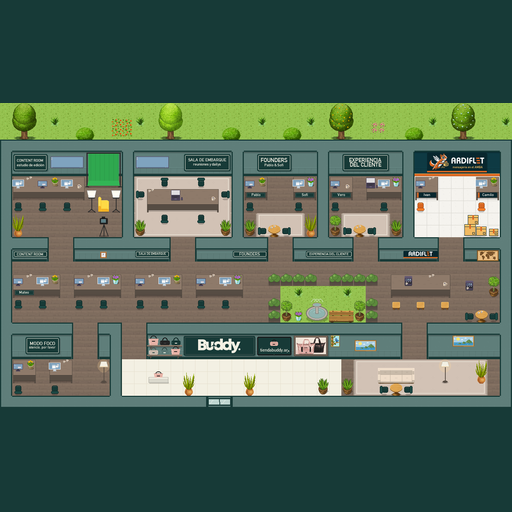
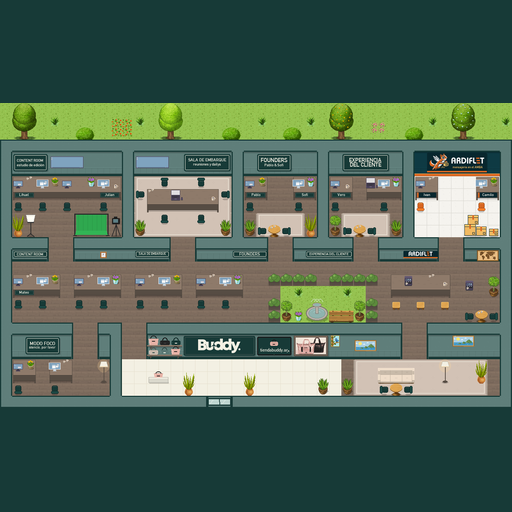
Content room: escritorios de Lihuel y Julian en las puntas
El mostrador ocupa ahora todo el ancho del cuarto: Lihuel en la punta
izquierda, Julian en la derecha y dos puestos de edición libres en el medio.
El set de grabación (fondo verde 3x2, cámara y luz) baja a la parte de abajo.

Changed region(s): [[0.0, 0.2812, 0.25, 0.4688]]

diff --git a/herramientas/construir.py b/herramientas/construir.py
@@ -36,14 +36,16 @@ NOMBRES = {
     "vero": "Vero",      # sala de Experiencia del cliente
     "ivan": "Ivan",      # oficina Ardiflet
     "camilo": "Camilo",  # oficina Ardiflet
+    "lihuel": "Lihuel",  # Content room (punta izquierda)
+    "julian": "Julian",  # Content room (punta derecha)
 }
 
 # Cowork: 8 puestos compartidos. "" = puesto libre, sin placa.
 # Orden: fila de arriba de izquierda a derecha, después la fila de abajo.
 COWORK = ["Mateo", "", "", "", "", "", "", ""]
 
-# Content room: 3 puestos de edición. "" = sin placa.
-CONTENT_ROOM = ["", "", ""]
+# Content room: 2 puestos de edición en el medio, entre Lihuel y Julian. "" = sin placa.
+CONTENT_ROOM = ["", ""]
 
 # Pantallas de pared que abren un link cuando te parás adelante y apretás ESPACIO.
 #   lugar: "recepcion", "reuniones" (Sala de Embarque) o "content" (Content room)
@@ -417,19 +419,19 @@ def lampara():
 
 
 def fondo_croma():
-    """Fondo verde de grabación con su estructura, 3x3 tiles."""
-    im, d = lienzo(3, 3)
+    """Fondo verde de grabación con su estructura, 3x2 tiles."""
+    im, d = lienzo(3, 2)
     croma = c("#2FA84F")
     fierro = c("#2B2B2B")
-    d.rectangle([6, 88, 90, 93], fill=SOMBRA)
+    d.rectangle([6, 56, 90, 61], fill=SOMBRA)
     for x in (4, 91):
-        d.line([x, 2, x, 90], fill=fierro, width=3)
-        d.line([x - 5, 91, x + 5, 91], fill=fierro, width=2)
+        d.line([x, 2, x, 58], fill=fierro, width=3)
+        d.line([x - 5, 59, x + 5, 59], fill=fierro, width=2)
     d.line([4, 3, 91, 3], fill=fierro, width=3)
-    d.rectangle([8, 5, 87, 76], fill=croma)
+    d.rectangle([8, 5, 87, 47], fill=croma)
     for x in range(14, 87, 12):
-        d.line([x, 5, x, 76], fill=tono(croma, 0.9))
-    d.polygon([(8, 76), (87, 76), (90, 88), (5, 88)], fill=tono(croma, 1.08))
+        d.line([x, 5, x, 47], fill=tono(croma, 0.9))
+    d.polygon([(8, 47), (87, 47), (90, 57), (5, 57)], fill=tono(croma, 1.08))
     return im
 
 
@@ -947,21 +949,21 @@ def armar_mapa(amb, car):
 
     # ═══ Fila de arriba ═══
 
-    # Content room (x1-9): 3 puestos de edición, fondo verde, cámara y luces
+    # Content room (x1-9): Lihuel y Julian en las puntas, 2 puestos de edición en el medio,
+    # y abajo el set de grabación (fondo verde, cámara y luz)
     poner("walls2", 1, 1, "buddy_carteles", C("cartel_content"))
     tele_decorativa("content")
-    escritorio(1, 3, 6, monitores=[(1, 0), (3, 1), (5, 0)],
-               placas=[(1 + 2 * i, f"placa_content{i}") for i in range(3)], sillas=[1, 3, 5],
-               cosas=[(2, MISC, TAZA), (4, DEC, MACETA), (6, MISC, TAZA_CHICA)])
-    poner("furniture2", 7, 1, "buddy_ambiente", A("croma"))
-    choca(7, 3, 9, 3)
-    poner("furniture2", 8, 4, SEATS, [[59], [72]])
-    poner("furniture2", 8, 6, "buddy_ambiente", A("camara"))
-    choca(8, 7)
-    poner("furniture2", 7, 4, "buddy_ambiente", A("luz"))
-    choca(7, 5)
-    poner("furniture2", 9, 4, "buddy_ambiente", A("luz"))
-    choca(9, 5)
+    escritorio(1, 3, 9,
+               monitores=[(1, 1), (3, 0), (5, 1), (8, 0)],
+               placas=[(1, "placa_lihuel"), (3, "placa_content0"), (5, "placa_content1"), (8, "placa_julian")],
+               sillas=[1, 3, 5, 8],
+               cosas=[(2, MISC, TAZA), (4, DEC, MACETA), (7, DEC, FLORES), (9, MISC, TAZA_CHICA)])
+    poner("furniture2", 6, 6, "buddy_ambiente", A("croma"))
+    choca(6, 7, 8, 7)
+    poner("furniture2", 9, 6, "buddy_ambiente", A("camara"))
+    choca(9, 7)
+    poner("furniture2", 2, 6, "buddy_ambiente", A("luz"))
+    choca(2, 7)
     planta(1, 6, PLANTA_A)
 
     # Sala de Embarque (x11-18): mesa larga, 6 sillas y alfombra

diff --git a/INSTRUCCIONES.md b/INSTRUCCIONES.md
@@ -18,7 +18,7 @@ cd ~/Desktop/"OFI VIRTUAL"
 
 | Zona | Qué es |
 |---|---|
-| **Content room** (arriba a la izquierda) | Estudio de edición: 3 puestos, fondo verde, cámara y luces. |
+| **Content room** (arriba a la izquierda) | Estudio de edición: Lihuel y Julian en las puntas, 2 puestos libres en el medio, y abajo el fondo verde con la cámara y la luz. |
 | **Sala de Embarque** | Sala de reuniones. Al entrar se abre la videollamada con todos los que estén adentro. |
 | **Founders** | Pablo y Sofi, con una mesita para charlar. |
 | **Experiencia del cliente** | Vero y el mostrador de atención. |
@@ -89,7 +89,7 @@ Hay tres listas:
 
 - **`NOMBRES`**: los escritorios fijos (Pablo, Sofi, Vero, Ivan, Camilo). Cambiá solo lo que está a la derecha de los dos puntos y dejá las comillas: `"camilo": "Camilo",`.
 - **`COWORK`**: los 8 puestos compartidos, en orden (fila de arriba de izquierda a derecha, después la de abajo). `""` es un puesto libre sin placa. Para sumar a alguien, reemplazá un `""` por su nombre: `COWORK = ["Mateo", "Juan", "", "", "", "", "", ""]`.
-- **`CONTENT_ROOM`**: los 3 puestos de edición, igual que el cowork. Hoy están los tres sin placa.
+- **`CONTENT_ROOM`**: los 2 puestos de edición del medio (los de las puntas son los de Lihuel y Julian, que están en `NOMBRES`). Hoy los dos están sin placa.
 
 ### Agregar una pantalla que abra un link (por ejemplo, un tablero de Notion)
 
